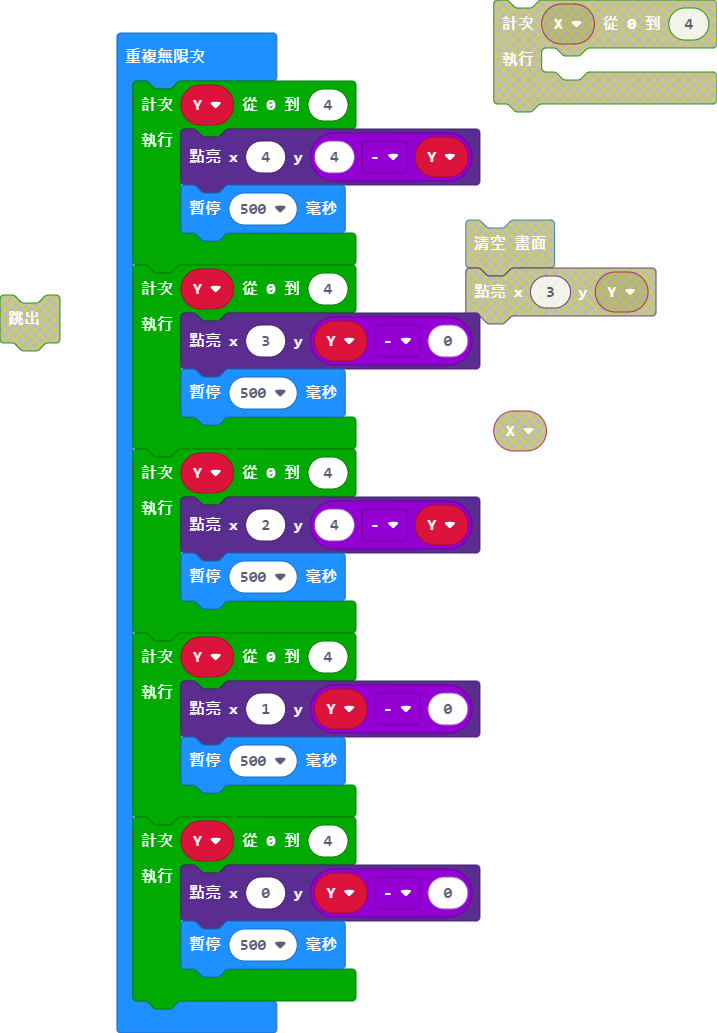
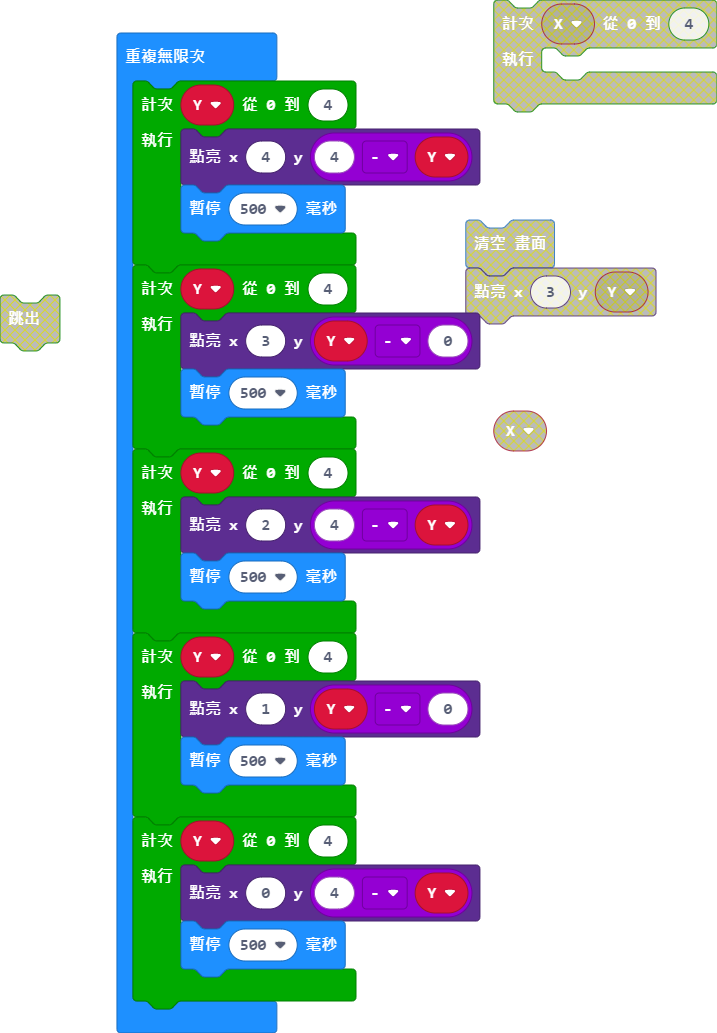
Update main.blocks, main.ts

Changed region(s): [[0.4296, 0.8364, 0.675, 0.8984]]

diff --git a/main.ts b/main.ts
@@ -16,7 +16,7 @@ basic.forever(function () {
         basic.pause(500)
     }
     for (let Y = 0; Y <= 4; Y++) {
-        led.plot(0, Y - 0)
+        led.plot(0, 4 - Y)
         basic.pause(500)
     }
 })
